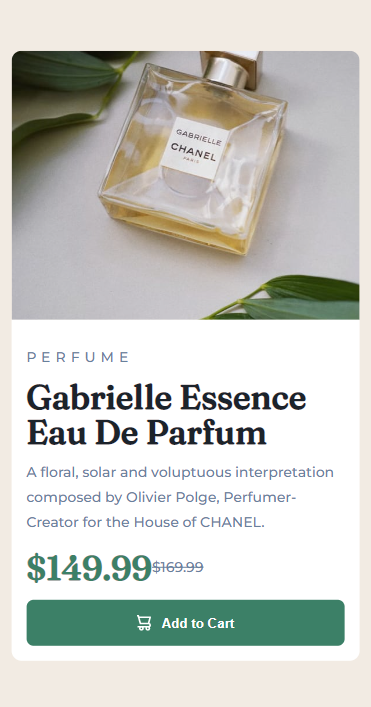
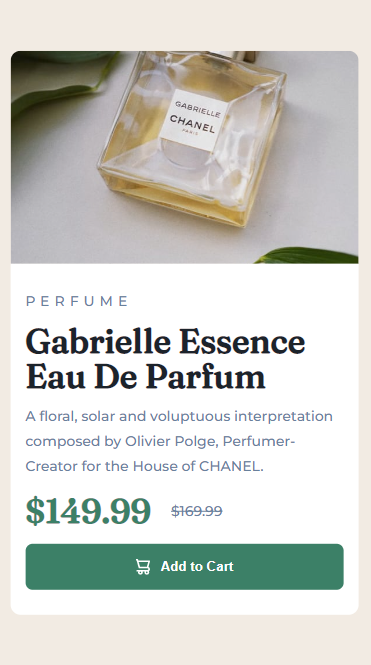
finishing touches

diff --git a/styles/style.css b/styles/style.css
@@ -117,6 +117,12 @@ p {
   }
 }
 @media screen and (max-width: 715px) {
+  p {
+    margin: 1rem 0;
+  }
+  button {
+    margin: 1rem 0;
+  }
   .card-container {
     width: 93%;
   }
@@ -129,11 +135,8 @@ p {
     flex: 1 1 40rem;
     justify-content: space-evenly;
   }
-  .card-container .card-info p {
-    margin: 1rem 0;
-  }
-  .card-container .card-info button {
-    margin-top: 1rem;
+  .card-container .card-info .card-price p {
+    margin-left: 2rem;
   }
 }
 @media screen and (max-width: 465px) {

diff --git a/styles/style.scss b/styles/style.scss
@@ -20,6 +20,14 @@ $paragraph: 14px;
 }
 
 @media screen and (max-width: 715px) {
+  p {
+    margin: 1rem 0;
+  }
+
+  button {
+    margin: 1rem 0;
+  }
+
   .card-container {
     width: 93%;
 
@@ -33,12 +41,8 @@ $paragraph: 14px;
       flex: 1 1 40rem;
       justify-content: space-evenly;
 
-      p {
-        margin: 1rem 0;
-      }
-
-      button {
-        margin-top: 1rem;
+      .card-price p {
+        margin-left: 2rem;
       }
     }
   }
